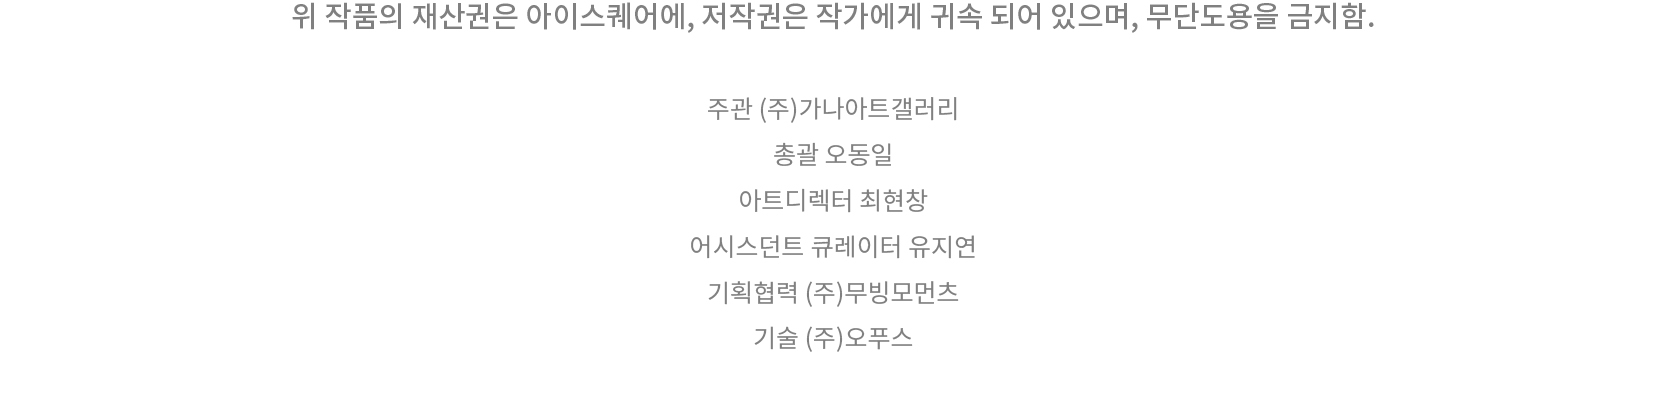
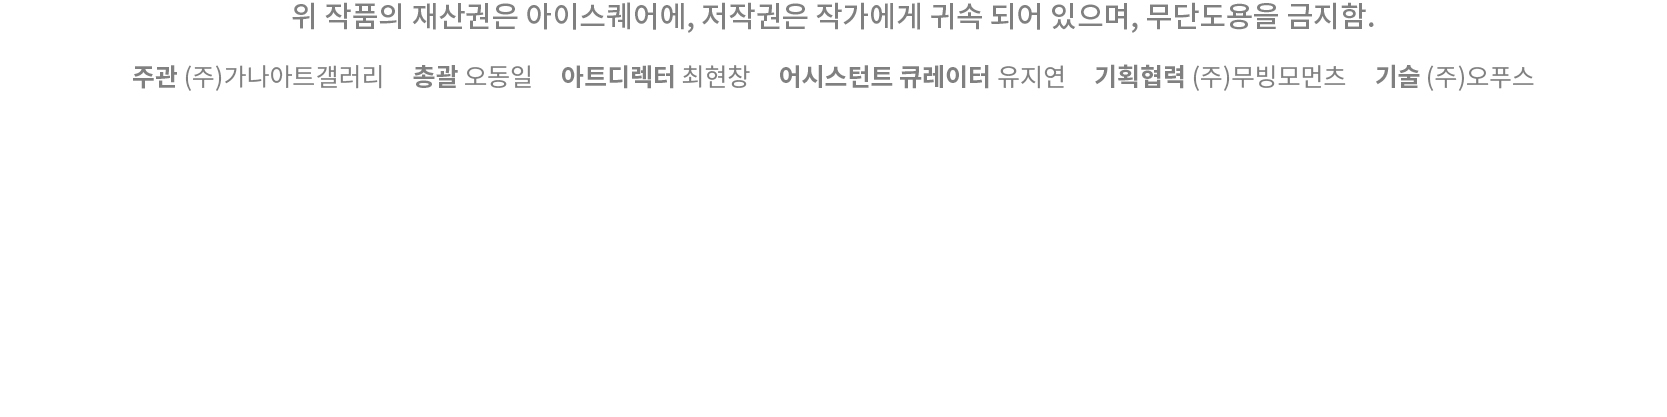
06268

diff --git a/index.html b/index.html
@@ -92,7 +92,7 @@
 																						<h3 class="ng">하준수 안종훈</h3> -->
 																			 </div>
 																			 <div style="text-align: center;  margin : 200px auto;">
-																							<img width="200" height="50"  src="images/fulls/credit.jpg" align="center" />
+																							<img width="300" height="75"  src="images/fulls/credit.jpg" align="center" />
 
 
 
